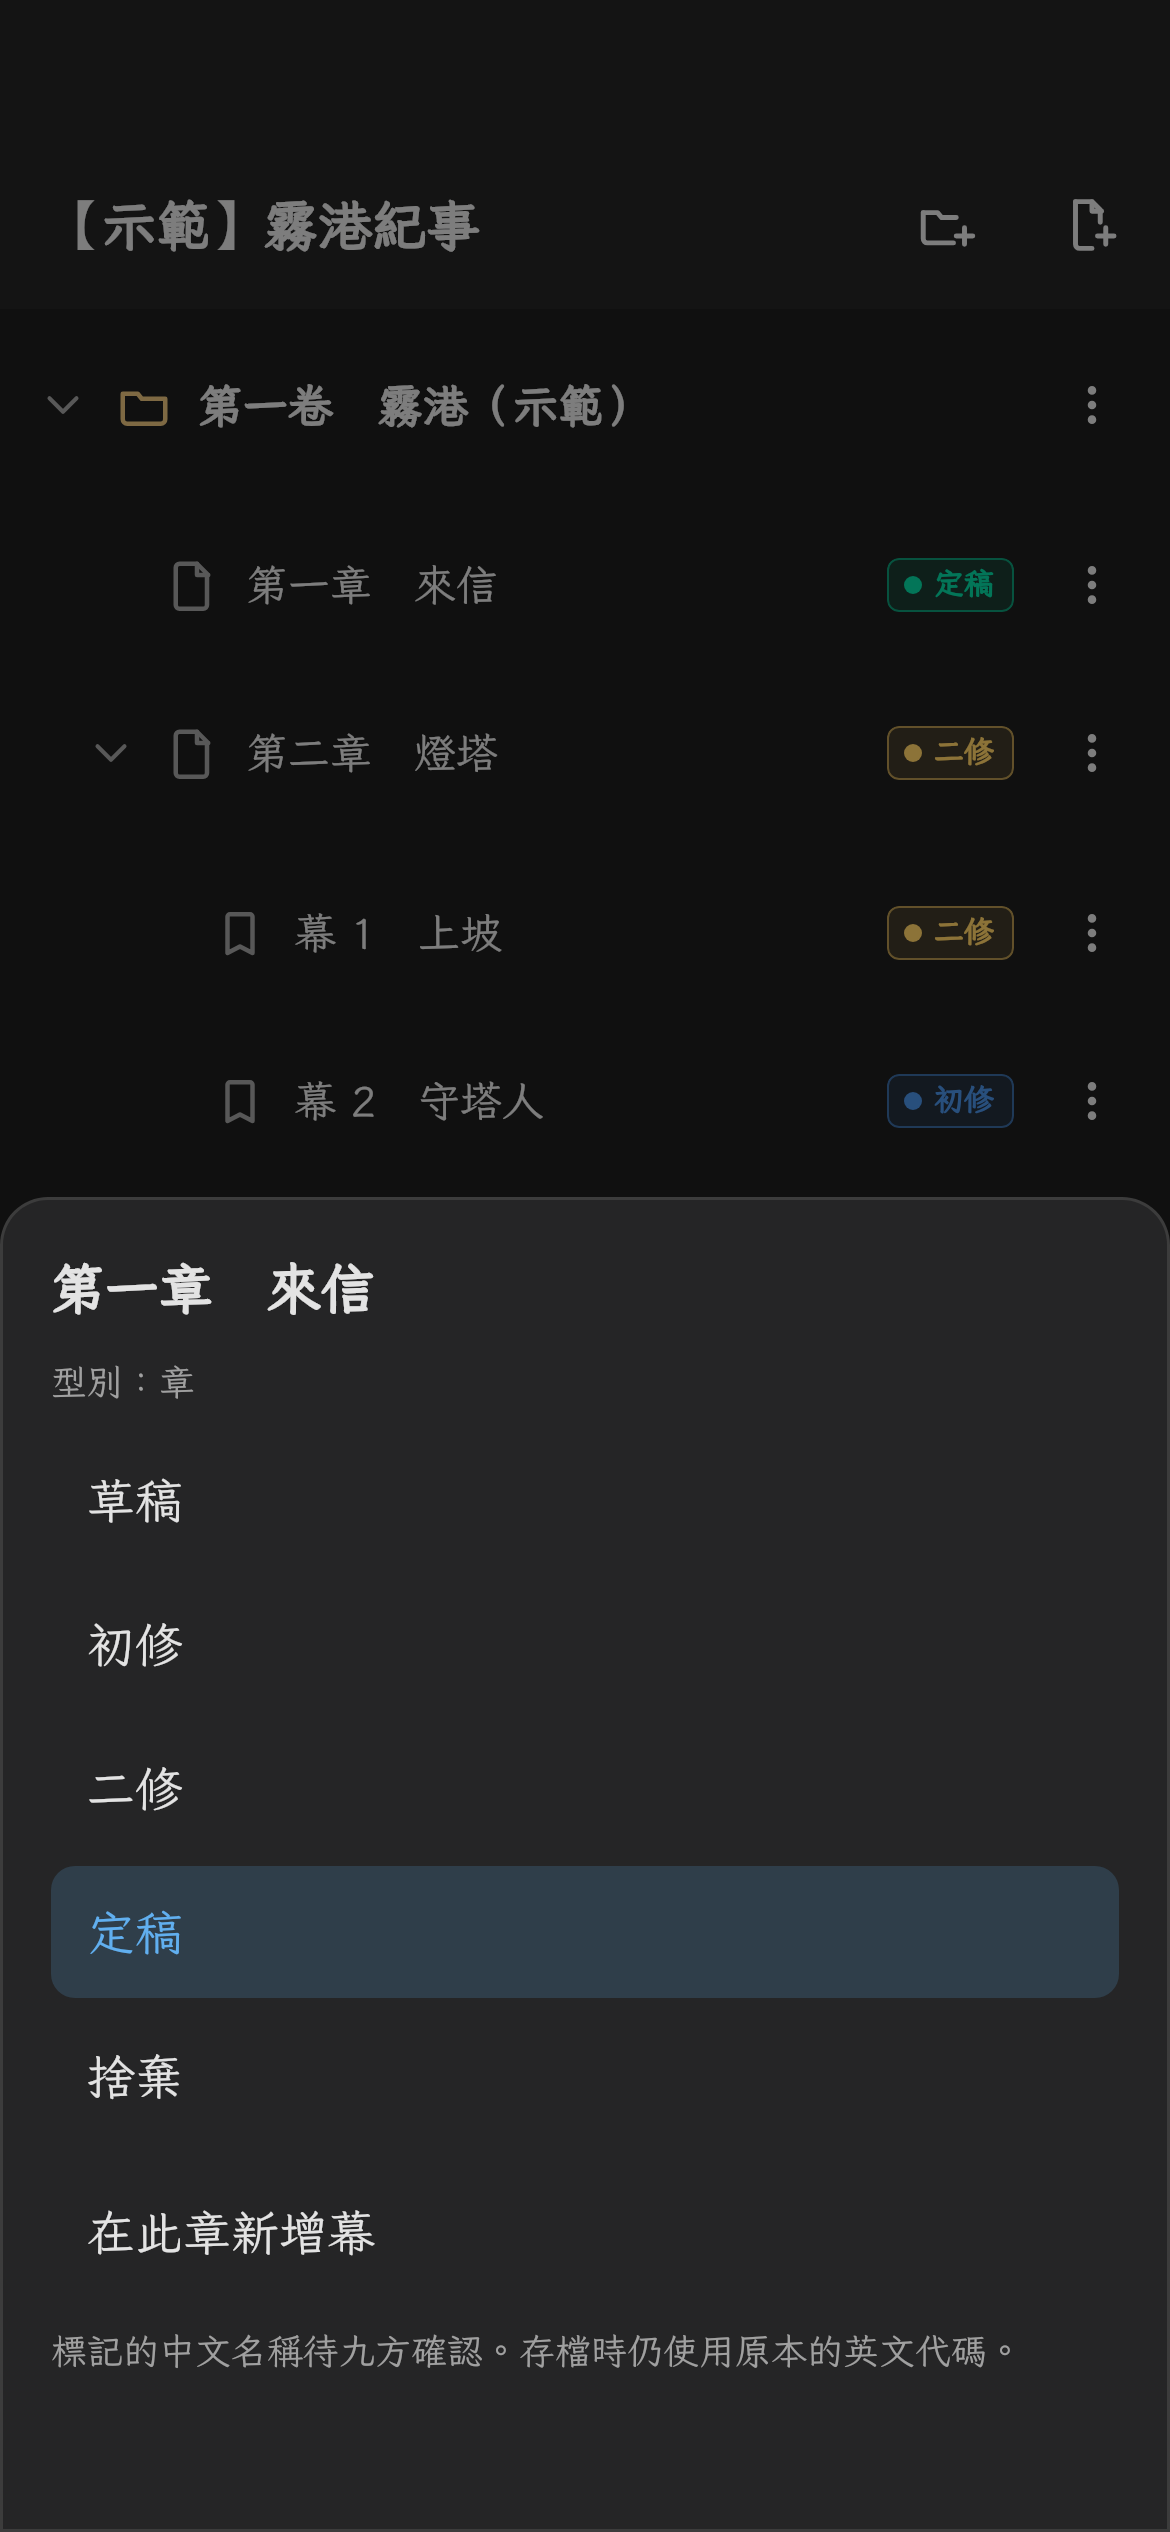
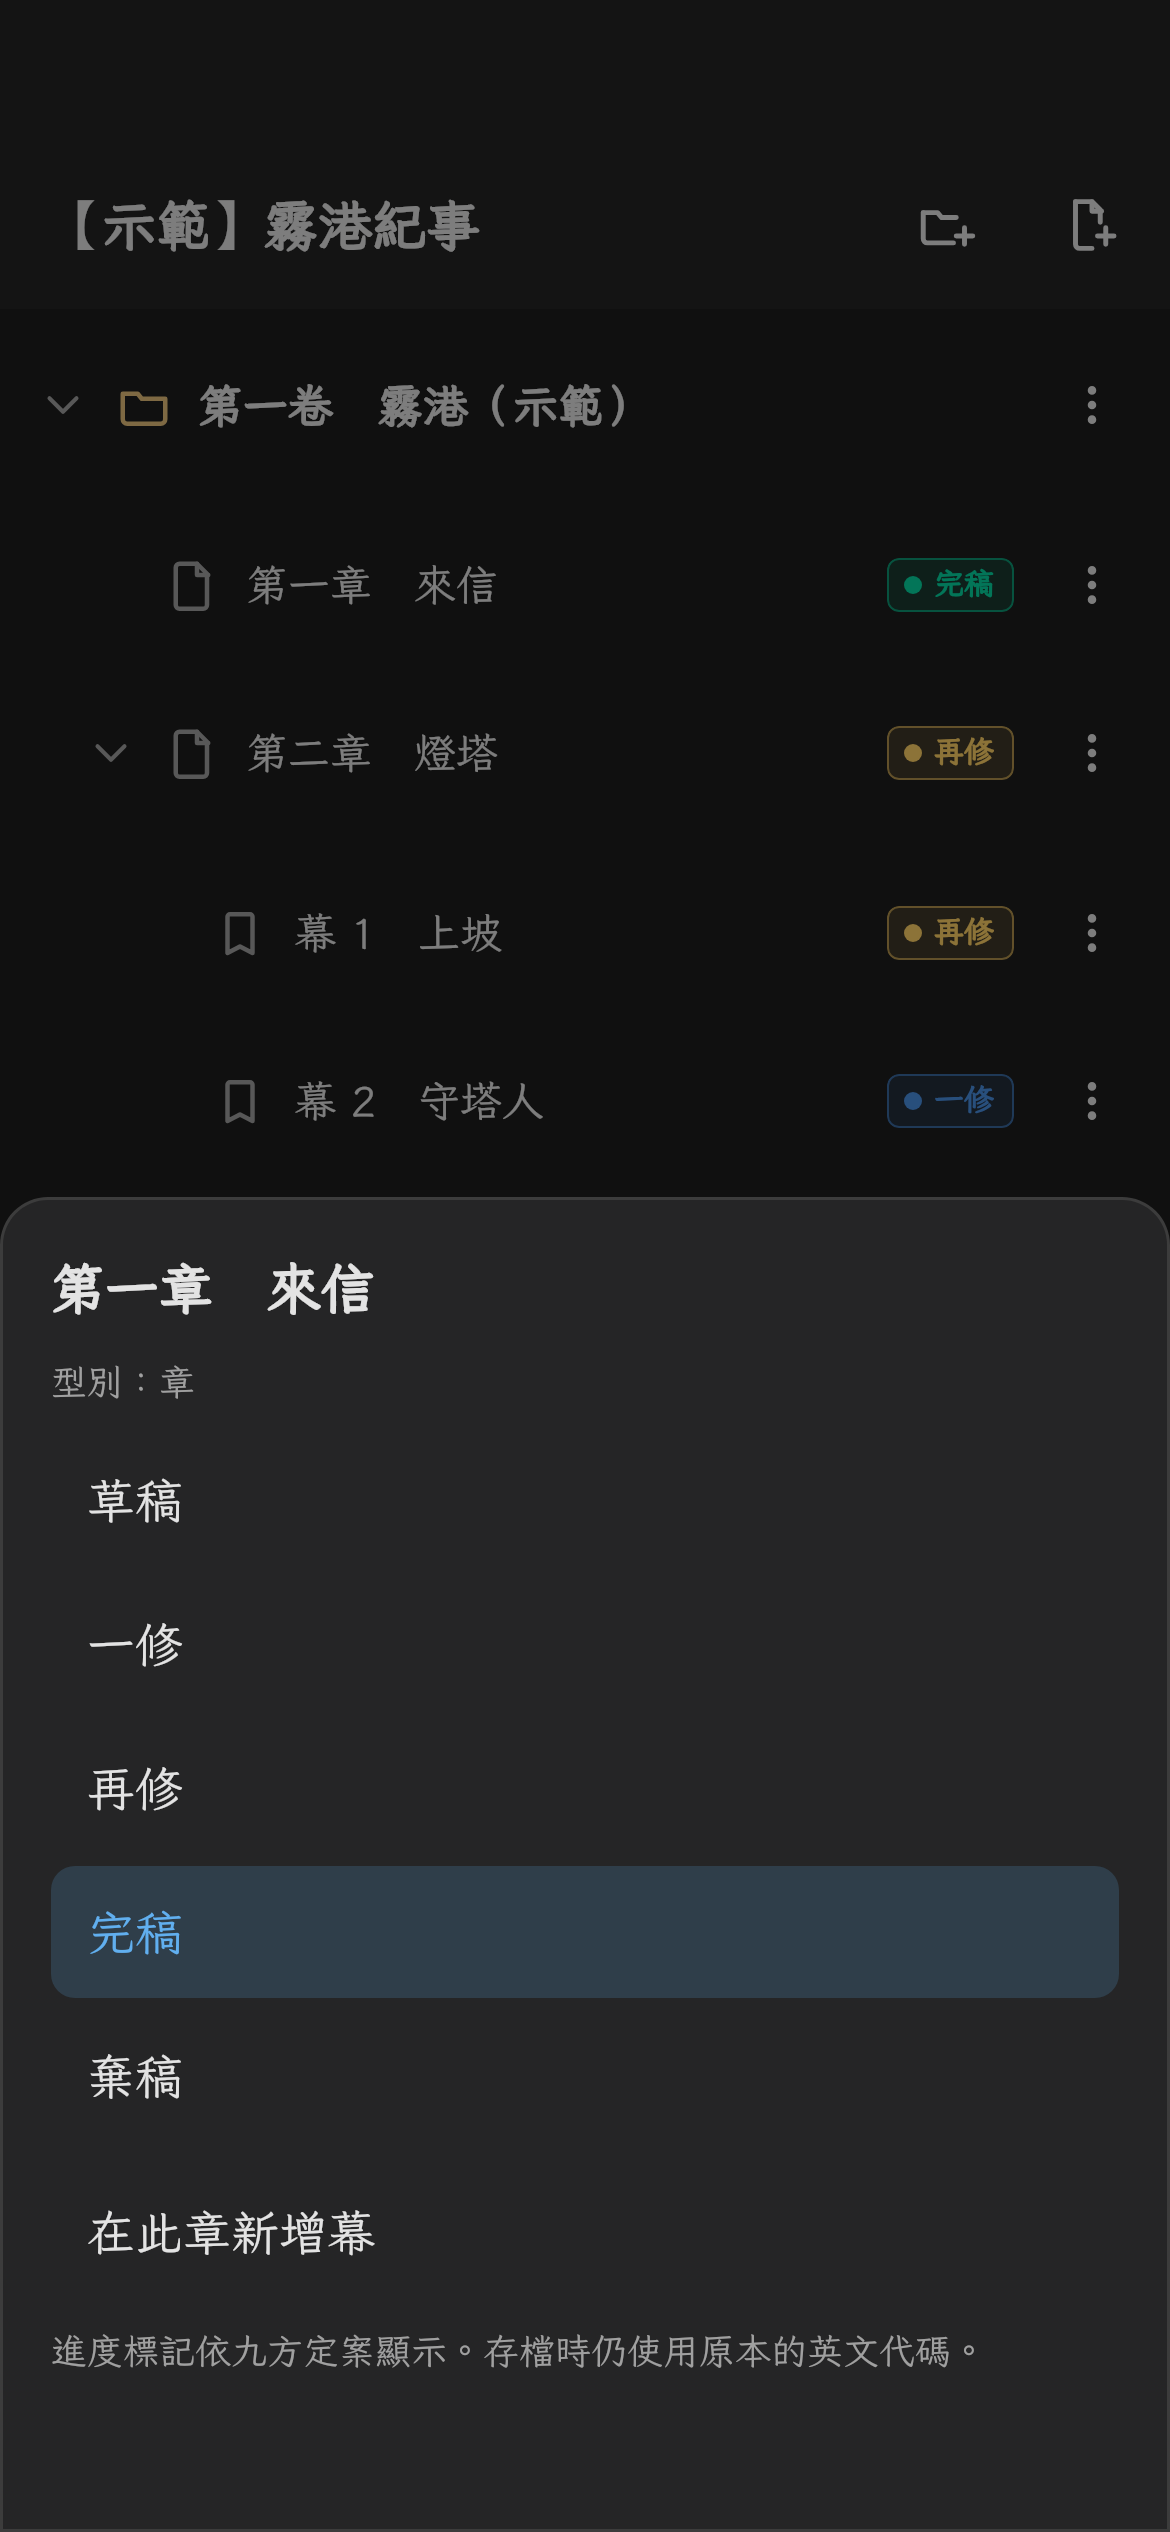
依九方定案改進度標記的中文名稱
畫面上改為草稿、一修、再修、完稿、棄稿，資料仍存英文代碼。

diff --git a/src/domain/labels.ts b/src/domain/labels.ts
@@ -1,13 +1,13 @@
 /**
- * 進度標記與節點種類的顯示名稱。
- * 待九方確認。資料仍存英文代碼，只有畫面上的字改成中文。
+ * 進度標記的顯示名稱。九方已定案。
+ * 資料仍存英文代碼，只有畫面上的字用中文。
  */
 export const PROGRESS_LABELS = {
   Draft: '草稿',
-  '1st Edit': '初修',
-  '2nd Edit': '二修',
-  Final: '定稿',
-  Discarded: '捨棄',
+  '1st Edit': '一修',
+  '2nd Edit': '再修',
+  Final: '完稿',
+  Discarded: '棄稿',
 } as const;
 
 export type ProgressCode = keyof typeof PROGRESS_LABELS;

diff --git a/src/screens/WriteScreen.tsx b/src/screens/WriteScreen.tsx
@@ -102,7 +102,7 @@ export function WriteScreen() {
             >
               {menuNode.type === 'file' ? '在此章新增幕' : '調整目錄結構'}
             </button>
-            <p className="hint">標記的中文名稱待九方確認。存檔時仍使用原本的英文代碼。</p>
+            <p className="hint">進度標記依九方定案顯示。存檔時仍使用原本的英文代碼。</p>
           </div>
         </div>
       )}

diff --git a/src/data/demo.ts b/src/data/demo.ts
@@ -131,7 +131,7 @@ export const DEMO_PROJECTS: DemoProject[] = [
             type: 'file',
             title: '第四章　（刪去的岔路）',
             progress: 'Discarded',
-            content: '【示範假資料】這一章是故意標成捨棄的岔路，不是真實書稿。\n',
+            content: '【示範假資料】這一章是故意標成棄稿的岔路，不是真實書稿。\n',
           },
         ],
       },

diff --git a/docs/階段1樣品報告.md b/docs/階段1樣品報告.md
@@ -87,22 +87,19 @@
 
 先前已經跟九方說過：沒有辦法百分之百保證是純人工打的。這份樣品也一樣。
 
-## 進度標記的中文（待九方確認）
+## 進度標記的中文（九方已定案）
 
-資料庫裡仍存原來的英文代碼，只有畫面上的字改成中文。建議如下，不滿意可以改：
+資料庫裡仍存原來的英文代碼，只有畫面上的字用中文：
 
-| 現在存的代碼 | 建議顯示 | 也可以考慮 |
-|---|---|---|
-| Draft | 草稿 | |
-| 1st Edit | 初修 | 一修 |
-| 2nd Edit | 二修 | 再修 |
-| Final | 定稿 | 完稿 |
-| Discarded | 捨棄 | 棄稿 |
-| folder | 卷 | |
-| file | 章 | |
-| scene | 幕 | |
+| 存的代碼 | 顯示 |
+|---|---|
+| Draft | 草稿 |
+| 1st Edit | 一修 |
+| 2nd Edit | 再修 |
+| Final | 完稿 |
+| Discarded | 棄稿 |
 
-選單現在寫「型別：章」「在此章新增幕」，不再出現 Scene 或「型別：file」。目錄上的徽章是：草稿、初修、二修、定稿、捨棄。顏色仍用現有 App 在暗色背景上的那組，不是規格文件裡的純藍純黃。
+卷、章、幕是目錄層級的說法，不是這五個進度標記。選單寫「型別：章」「在此章新增幕」，不再出現 Scene 或「型別：file」。顏色仍用現有 App 在暗色背景上的那組。
 
 ## 我自己定的、九方可以改的
 
